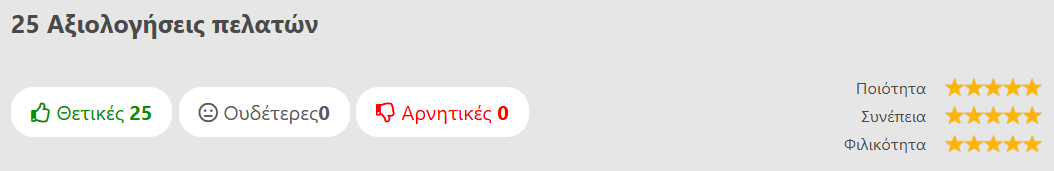
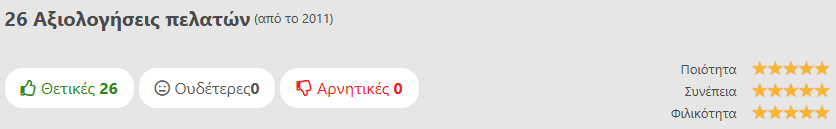
Added latest review, more photos

diff --git a/app/templates/quality.html b/app/templates/quality.html
@@ -76,6 +76,10 @@
               <h2>Τι λένε οι πελάτες μας</h2>
               <div class="testimonial-cards">
                 <article class="fade-in">
+                  <p>"Ο καλύτερος επαγγελματίας, έκανε άψογη δουλειά, με μεγάλη προσοχή στη λεπτομέρεια και καθαριότητα σε κάθε στάδιο. Ήταν συνεπής, ευγενικός και πρόθυμος. Τον συνιστώ ανεπιφύλακτα!"</p>
+                  <span class="author">ΤΑΚΗΣ Ε. Νοέμβριος 2025 – ΚΗΦΙΣΙΑ, ΑΤΤΙΚΗΣ</span>
+                </article>
+                <article class="fade-in">
                   <p>"Εξαιρετικός επαγγελματίας, έμεινα πολύ ευχαριστημένος. Θα τον ξανά προτιμήσω."</p>
                   <span class="author">ΜIoannis P. Ιανουάριος 2025 – ΒΡΙΛΗΣΙΑ, ΑΤΤΙΚΗΣ</span>
                 </article>

diff --git a/app/templates/home.html b/app/templates/home.html
@@ -1,6 +1,6 @@
 {% extends "base.html" %}
 
-{% block title %}Βαφή Αθήνα | Chroma Premium - Επαγγελματική Βαφή Κατοικιών & Επιχειρήσεων{% endblock %}
+{% block title %}Chroma Premium | Επαγγελματικό Βάψιμο Κατοικιών & Επιχειρήσεων{% endblock %}
 
 {% block meta_description %}Μεταμορφώστε τον χώρο σας με επαγγελματικές υπηρεσίες βαφής. Chroma Premium - 25+ αξιολογήσεις 5 αστέρων. Κατοικίες, επιχειρήσεις, εποξειδικά δάπεδα.{% endblock %}
 
